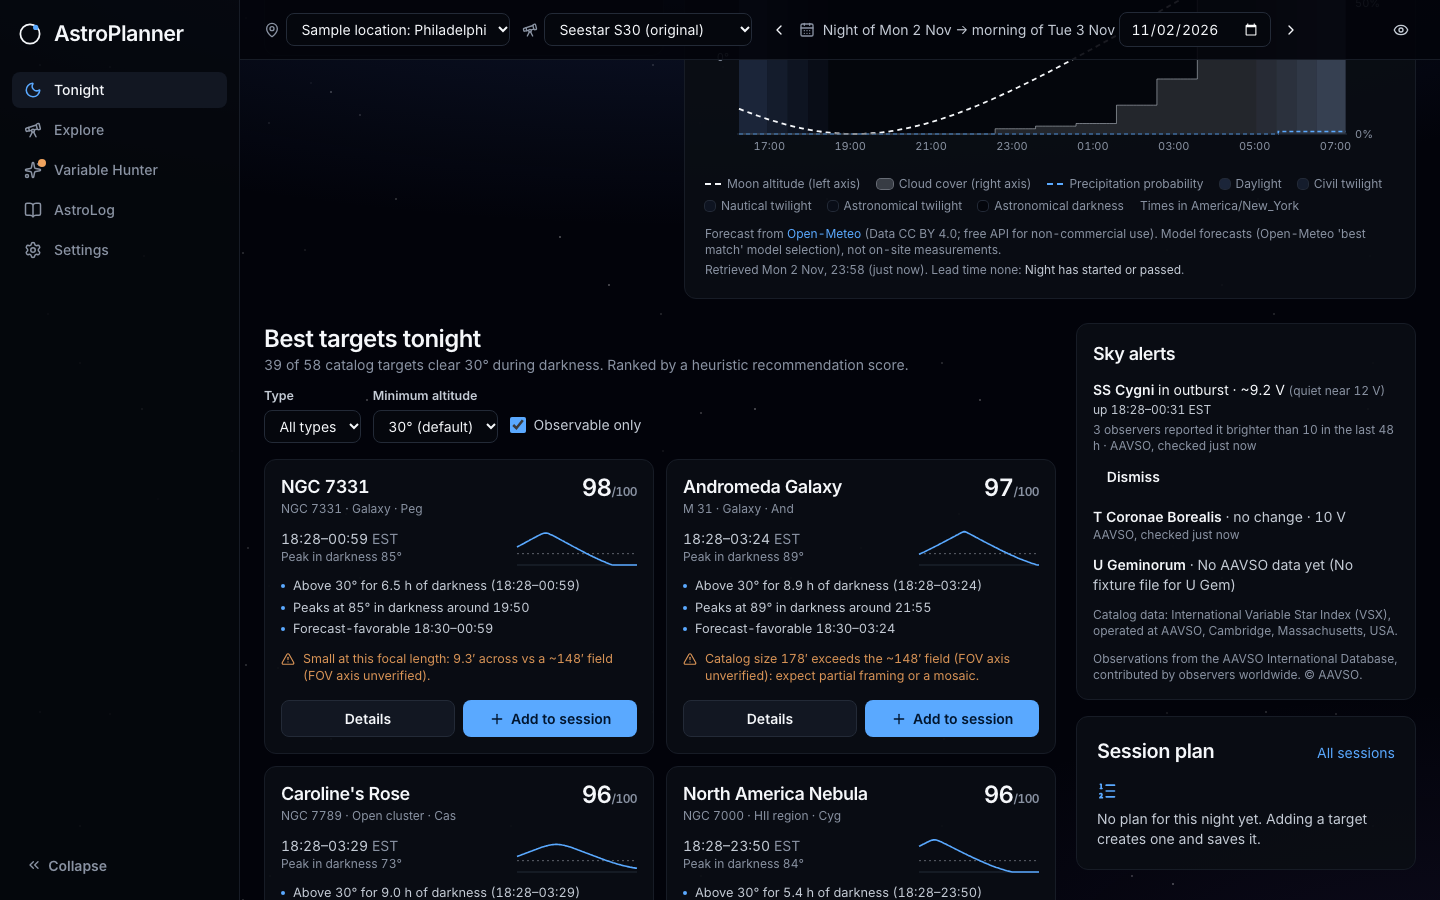
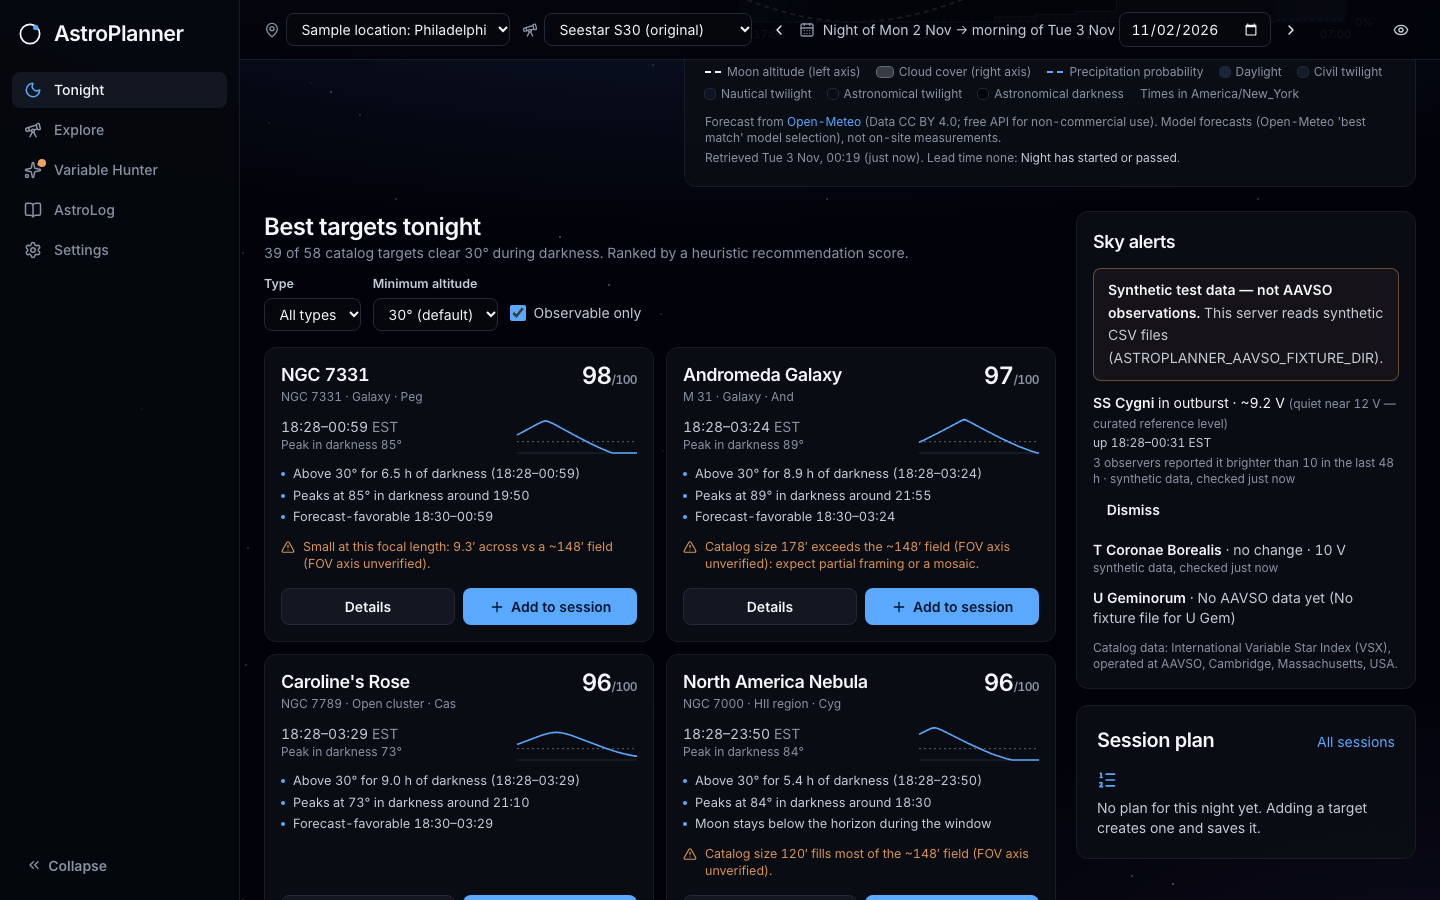
docs: final review fixes, Phase 3 limitations, retaken fixture screenshots

diff --git a/PROGRESS.md b/PROGRESS.md
@@ -1,6 +1,6 @@
 # PROGRESS
 
-_Last updated: 2026-11-02 · Phase plan and process: see [ROADMAP.md](ROADMAP.md)_
+_Last updated: 2026-11-03 · Phase plan and process: see [ROADMAP.md](ROADMAP.md)_
 
 ## Current phase: Phase 3, Variable Hunter: complete, pending developer review
 
@@ -38,12 +38,30 @@ SS Cyg 365-day history filled in 13 chunks: 26,918 observations cached, 0 errors
 recon (about 12 to 8.5-9 V). Sky alerts showed SS Cyg and T CrB as "no change" with current magnitudes. Night vision recolours the chart.
 This is not a CI test: it used the live service once, for personal non-commercial use.
 
-### Commands last run (all passing, 2026-11-02)
+### Final review fixes (2026-11-03)
+
+- Tests are sealed off from the AAVSO switches: an autouse fixture clears `ASTROPLANNER_AAVSO_ENABLED` /
+  `ASTROPLANNER_AAVSO_FIXTURE_DIR`, and both e2e backends blank them in their start commands.
+- Fixture mode is labelled: curve and alerts payloads carry `mode`; with `fixture` the light curve, Sky alerts card, star
+  page and list say "Synthetic test data — not AAVSO observations" instead of the AAVSO observations attribution.
+  README screenshots retaken with the notice.
+- A failed save after a good VSX response now closes the fetch row as failed, so the 30-minute back-off applies
+  (before, the row stayed open and every 5 s poll re-requested the chunk).
+- The 6-hourly incremental refresh starts at most 3 days back, even after a long observing gap.
+- Alert-path requests use a 15 s timeout (history keeps 60 s).
+- Star page status chip (In outburst / No change / Stale / No AAVSO data yet) from the existing alerts query; the unused
+  `alert: null` list field is gone. Mission notes (e.g. "(UT dates)") are shown. The normal level reads as a
+  "curated reference level".
+- Smaller fixes: flat light curves get a one-magnitude axis; the tooltip ignores line-break rows; `"variable"` added to
+  the frontend kind/category unions; clearer "This is …" confirm text; "Seestar fit · <equipment>" heading; a
+  `frontend/dist` without `assets/` no longer crashes backend startup; README no longer claims a T CrB line the app lacks.
+
+### Commands last run (all passing, 2026-11-03, after the final review fixes)
 
 ```
-backend:  .venv/bin/python -m pytest -q          → 295 passed, 7 skipped
+backend:  .venv/bin/python -m pytest -q          → 303 passed, 7 skipped (also with ASTROPLANNER_AAVSO_ENABLED=1 exported)
 frontend: npm run typecheck                       → ok
-frontend: npm test                                → 101 passed (10 files)
+frontend: npm test                                → 117 passed (10 files)
 frontend: npm run build                           → ok
 frontend: npx playwright test                     → 24 passed (desktop, mobile, fixture-desktop, fixture-mobile)
 ```
@@ -63,6 +81,10 @@ Phase 1 and 2 suites are unchanged and inside those totals. No test contacts AAV
 - The e2e "add to tonight's plan" check returns early (still asserting the stated reason) if SS Cyg is not observable that night.
 - Only V and visual observations are used; other bands and fainter-than limits are cached but never plotted or counted.
 - No predictions of any kind (eruption dates, eclipse timetables) by design.
+- "Your night" markers on the light curve sit at UT midnight after the local night date: right for western observers,
+  up to a day off east of UTC.
+- When the alert has no daily-mean run reaching into the 48 h window, its episode is the span of the bright reports
+  inside that window, so it slides with the window: a dismissed borderline alert can come back.
 
 ### Phase 3 exit items
 

diff --git a/README.md b/README.md
@@ -64,7 +64,7 @@ A short, curated list of variable stars a Seestar can follow: **SS Cygni, U Gemi
 - **Sky alerts** on Tonight (and a dot on the menu item): a star is called out only when at least 2 independent observers
   (3 for T CrB) report it brighter than its threshold within 48 hours. Every row says how fresh its data is; a
   failed or old fetch reads "Stale" or "No AAVSO data yet", never "no change". There are **no predictions**: no
-  eruption dates, countdowns or "expected" text. T CrB has not erupted; the page says so.
+  eruption dates, countdowns or "expected" text.
 - **Missions** (outburst, weekly watch, follow the cycle) are counted from your own AstroLog nights.
 - **Seestar fit** uses an **estimated** S30 brightness range of 7 to 12.5, labelled "estimate, not yet measured".
 
